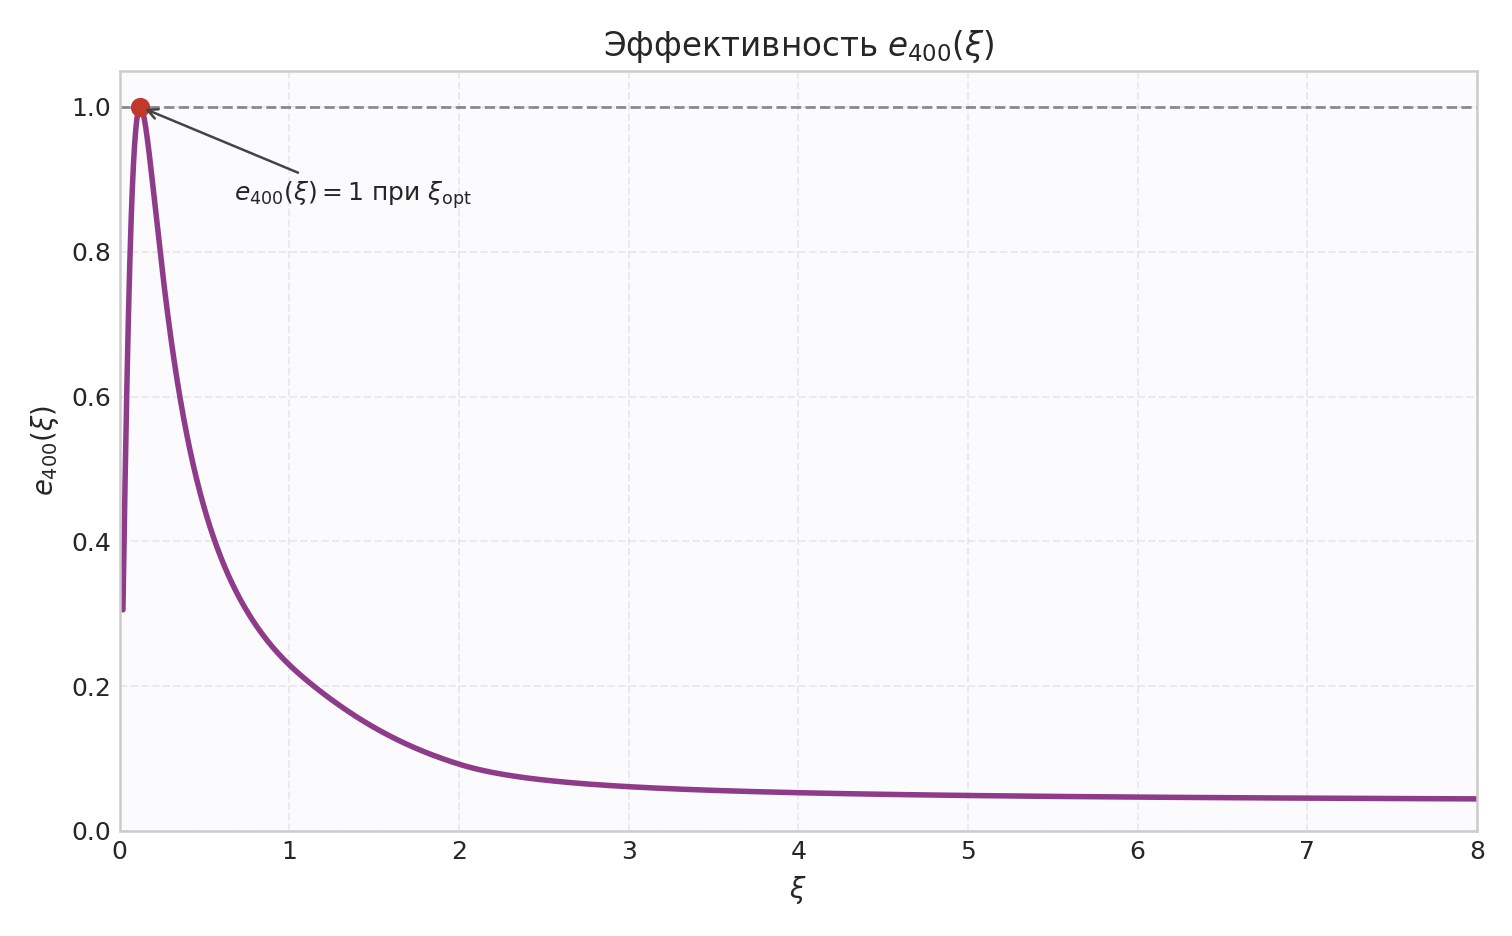
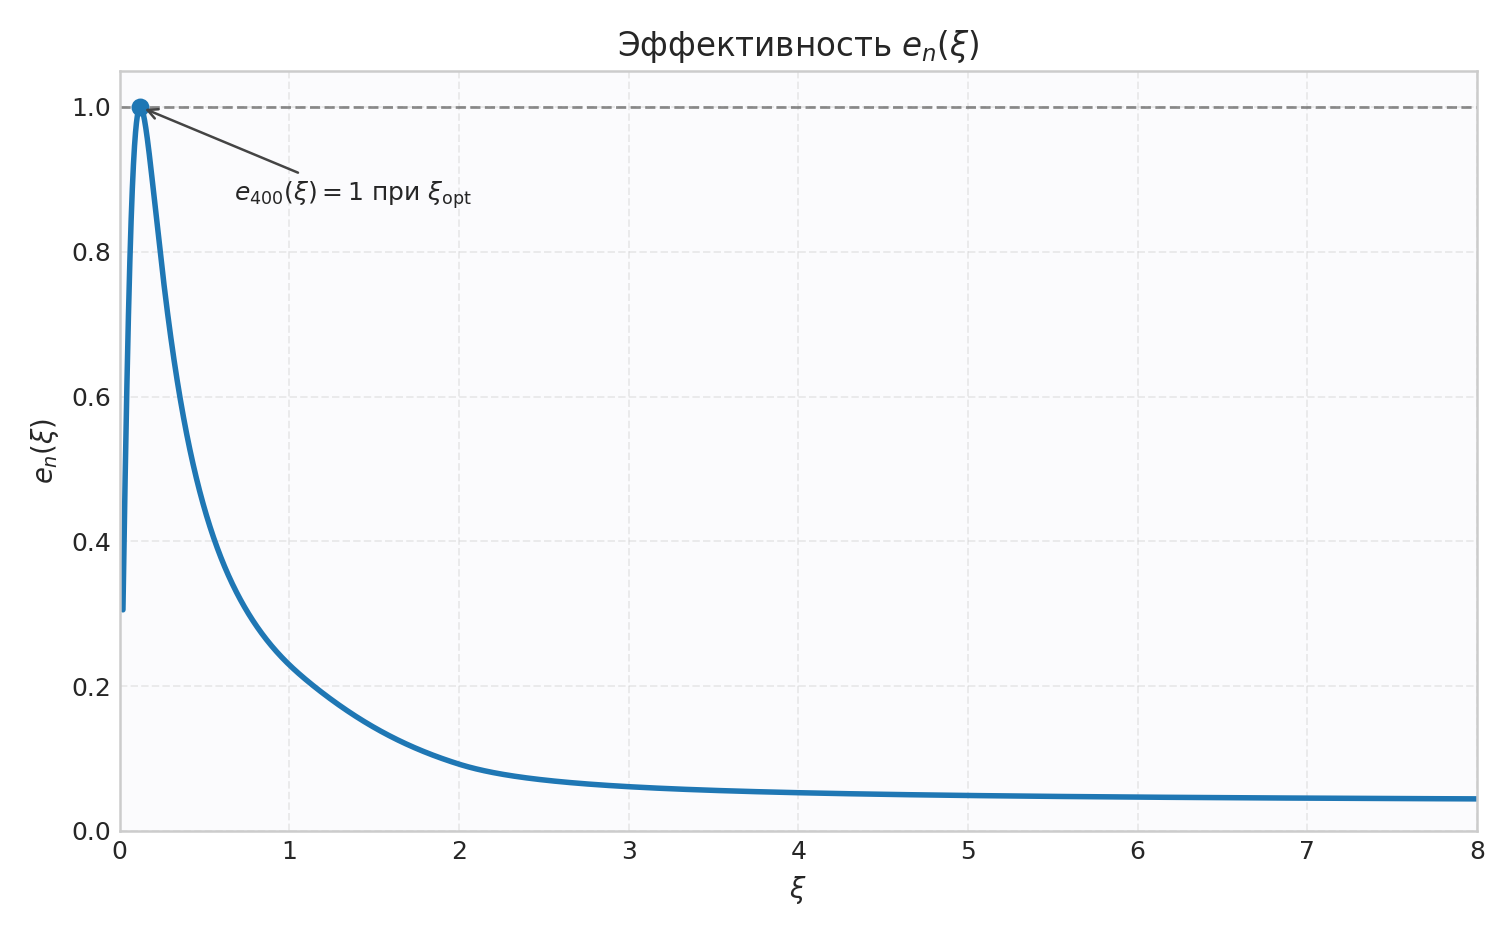
Add some new info about coursework

diff --git a/coursework/plot_mise_analytics.py b/coursework/plot_mise_analytics.py
@@ -9,7 +9,7 @@ import numpy as np
 
 A = math.sqrt(3.0)
 F_NORM = 1.0 / (2.0 * A)
-N_REF = 400
+N_REF = [30, 100]
 PLOTS_DIR = Path(__file__).resolve().parent / "plots"
 
 
@@ -62,13 +62,36 @@ def find_optimum(n: int, xi_grid: np.ndarray) -> tuple[float, float]:
     return float(candidate_array[index]), float(values[index])
 
 
-def verify_formula() -> list[str]:
-    checks: list[str] = []
+def normalize_n_ref(n_ref: int | list[int] | tuple[int, ...]) -> list[int]:
+    if isinstance(n_ref, int):
+        return [n_ref]
+    return [int(n) for n in n_ref]
 
-    left_at_1 = float(delta_bar(np.array([1.0 - 1e-9]), N_REF)[0])
-    right_at_1 = float(delta_bar(np.array([1.0 + 1e-9]), N_REF)[0])
-    left_at_2 = float(delta_bar(np.array([2.0 - 1e-9]), N_REF)[0])
-    right_at_2 = float(delta_bar(np.array([2.0 + 1e-9]), N_REF)[0])
+
+def format_n_refs(n_refs: list[int]) -> str:
+    return "_".join(str(n) for n in n_refs)
+
+
+def delta_plot_filename(n_refs: list[int]) -> str:
+    if len(n_refs) == 1:
+        return f"delta_bar_n{n_refs[0]}.png"
+    return f"delta_bar_n{format_n_refs(n_refs)}.png"
+
+
+def efficiency_plot_filename(n_refs: list[int]) -> str:
+    if len(n_refs) == 1:
+        return f"efficiency_en_n{n_refs[0]}.png"
+    return f"efficiency_en_n{format_n_refs(n_refs)}.png"
+
+
+def verify_formula(n_refs: list[int]) -> list[str]:
+    checks: list[str] = []
+    n_ref = n_refs[0]
+
+    left_at_1 = float(delta_bar(np.array([1.0 - 1e-9]), n_ref)[0])
+    right_at_1 = float(delta_bar(np.array([1.0 + 1e-9]), n_ref)[0])
+    left_at_2 = float(delta_bar(np.array([2.0 - 1e-9]), n_ref)[0])
+    right_at_2 = float(delta_bar(np.array([2.0 + 1e-9]), n_ref)[0])
 
     checks.append(
         f"continuity xi=1: |left-right| = {abs(left_at_1 - right_at_1):.3e}"
@@ -77,7 +100,7 @@ def verify_formula() -> list[str]:
         f"continuity xi=2: |left-right| = {abs(left_at_2 - right_at_2):.3e}"
     )
 
-    small_values = delta_bar(np.array([0.2, 0.05, 0.02]), N_REF)
+    small_values = delta_bar(np.array([0.2, 0.05, 0.02]), n_ref)
     growth_ok = bool(small_values[2] > small_values[1] > small_values[0])
     checks.append(
         "growth near 0+: "
@@ -88,18 +111,18 @@ def verify_formula() -> list[str]:
         )
     )
 
-    large_value = float(delta_bar(np.array([50.0]), N_REF)[0])
+    large_value = float(delta_bar(np.array([50.0]), n_ref)[0])
     checks.append(
         f"large xi limit: delta_bar(50) = {large_value:.6f}, target = {F_NORM:.6f}, "
         f"diff = {abs(large_value - F_NORM):.3e}"
     )
 
-    xi_opt, delta_min = find_optimum(N_REF, build_xi_grid())
-    off_opt_values = delta_bar(np.array([xi_opt / 2.0, xi_opt * 2.0]), N_REF)
-    efficiency_at_opt = float(delta_min / delta_bar(np.array([xi_opt]), N_REF)[0])
+    xi_opt, delta_min = find_optimum(n_ref, build_xi_grid())
+    off_opt_values = delta_bar(np.array([xi_opt / 2.0, xi_opt * 2.0]), n_ref)
+    efficiency_at_opt = float(delta_min / delta_bar(np.array([xi_opt]), n_ref)[0])
     off_opt_ok = bool(np.all(delta_min / off_opt_values < 1.0))
     checks.append(
-        f"efficiency: e_400(xi_opt)={efficiency_at_opt:.6f}, "
+        f"efficiency: e_{n_ref}(xi_opt)={efficiency_at_opt:.6f}, "
         f"off optimum < 1 is {off_opt_ok}"
     )
 
@@ -122,27 +145,42 @@ def configure_style() -> None:
     )
 
 
-def save_delta_plot(xi_grid: np.ndarray, xi_opt: float, delta_min: float) -> None:
+def save_delta_plot(
+    xi_grid: np.ndarray,
+    ref_optima: dict[int, tuple[float, float]],
+    n_refs: list[int],
+) -> str:
     fig, ax = plt.subplots(figsize=(8.4, 5.2))
-    values = delta_bar(xi_grid, N_REF)
 
-    ax.plot(xi_grid, values, color="#1f5aa6", linewidth=2.2)
-    ax.scatter([xi_opt], [delta_min], color="#c0392b", s=45, zorder=3)
-    ax.annotate(
-        rf"минимум: $\xi_{{\mathrm{{opt}}}} \approx {xi_opt:.3f}$",
-        xy=(xi_opt, delta_min),
-        xytext=(xi_opt + 0.35, delta_min + 0.02),
-        arrowprops={"arrowstyle": "->", "color": "#444444"},
-        fontsize=10,
-    )
+    for n_ref in n_refs:
+        xi_opt, delta_min = ref_optima[n_ref]
+        values = delta_bar(xi_grid, n_ref)
+        ax.plot(xi_grid, values, linewidth=2.2, label=rf"$n={n_ref}$")
+        ax.scatter([xi_opt], [delta_min], s=38, zorder=3)
+
+    if len(n_refs) == 1:
+        n_ref = n_refs[0]
+        xi_opt, delta_min = ref_optima[n_ref]
+        ax.annotate(
+            rf"минимум: $\xi_{{\mathrm{{opt}}}} \approx {xi_opt:.3f}$",
+            xy=(xi_opt, delta_min),
+            xytext=(xi_opt + 0.35, delta_min + 0.02),
+            arrowprops={"arrowstyle": "->", "color": "#444444"},
+            fontsize=10,
+        )
+    else:
+        ax.legend(title=r"$n$", frameon=True)
+
     ax.set_xlim(0.0, 8.0)
     ax.set_xlabel(r"$\xi$")
-    ax.set_ylabel(r"$\bar{\delta}_{400}(\xi)$")
-    ax.set_title(r"ОИСКО $\bar{\delta}_{400}(\xi)$")
+    ax.set_ylabel(r"$\bar{\delta}_{n}(\xi)$")
+    ax.set_title(r"ОИСКО $\bar{\delta}_{n}(\xi)$")
 
     fig.tight_layout()
-    fig.savefig(PLOTS_DIR / "delta_bar_n400.png", dpi=180)
+    filename = delta_plot_filename(n_refs)
+    fig.savefig(PLOTS_DIR / filename, dpi=180)
     plt.close(fig)
+    return filename
 
 
 def save_xi_opt_plot(n_values: np.ndarray, xi_opt_values: np.ndarray) -> None:
@@ -173,36 +211,52 @@ def save_delta_min_plot(n_values: np.ndarray, delta_min_values: np.ndarray) -> N
     plt.close(fig)
 
 
-def save_efficiency_plot(xi_grid: np.ndarray, xi_opt: float, delta_min: float) -> None:
+def save_efficiency_plot(
+    xi_grid: np.ndarray,
+    ref_optima: dict[int, tuple[float, float]],
+    n_refs: list[int],
+) -> str:
     fig, ax = plt.subplots(figsize=(8.4, 5.2))
-    delta_values = delta_bar(xi_grid, N_REF)
-    efficiency = delta_min / delta_values
 
-    ax.plot(xi_grid, efficiency, color="#8e3b8a", linewidth=2.2)
+    for n_ref in n_refs:
+        xi_opt, delta_min = ref_optima[n_ref]
+        delta_values = delta_bar(xi_grid, n_ref)
+        efficiency = delta_min / delta_values
+        ax.plot(xi_grid, efficiency, linewidth=2.2, label=rf"$n={n_ref}$")
+        ax.scatter([xi_opt], [1.0], s=38, zorder=3)
+
     ax.axhline(1.0, color="#666666", linewidth=1.1, linestyle="--", alpha=0.75)
-    ax.scatter([xi_opt], [1.0], color="#c0392b", s=45, zorder=3)
-    ax.annotate(
-        r"$e_{400}(\xi)=1$ при $\xi_{\mathrm{opt}}$",
-        xy=(xi_opt, 1.0),
-        xytext=(xi_opt + 0.55, 0.87),
-        arrowprops={"arrowstyle": "->", "color": "#444444"},
-        fontsize=10,
-    )
+    if len(n_refs) == 1:
+        n_ref = n_refs[0]
+        xi_opt, _ = ref_optima[n_ref]
+        ax.annotate(
+            rf"$e_{{{n_ref}}}(\xi)=1$ при $\xi_{{\mathrm{{opt}}}}$",
+            xy=(xi_opt, 1.0),
+            xytext=(xi_opt + 0.55, 0.87),
+            arrowprops={"arrowstyle": "->", "color": "#444444"},
+            fontsize=10,
+        )
+    else:
+        ax.legend(title=r"$n$", frameon=True)
+
     ax.set_xlim(0.0, 8.0)
     ax.set_ylim(0.0, 1.05)
     ax.set_xlabel(r"$\xi$")
-    ax.set_ylabel(r"$e_{400}(\xi)$")
-    ax.set_title(r"Эффективность $e_{400}(\xi)$")
+    ax.set_ylabel(r"$e_n(\xi)$")
+    ax.set_title(r"Эффективность $e_n(\xi)$")
 
     fig.tight_layout()
-    fig.savefig(PLOTS_DIR / "efficiency_en_n400.png", dpi=180)
+    filename = efficiency_plot_filename(n_refs)
+    fig.savefig(PLOTS_DIR / filename, dpi=180)
     plt.close(fig)
+    return filename
 
 
 def main() -> None:
     PLOTS_DIR.mkdir(parents=True, exist_ok=True)
     configure_style()
 
+    n_refs = normalize_n_ref(N_REF)
     xi_grid = build_xi_grid()
     n_values = np.arange(10, 1001)
 
@@ -210,17 +264,17 @@ def main() -> None:
     xi_opt_values = optima[:, 0]
     delta_min_values = optima[:, 1]
 
-    xi_opt_ref, delta_min_ref = find_optimum(N_REF, xi_grid)
+    ref_optima = {n_ref: find_optimum(n_ref, xi_grid) for n_ref in n_refs}
 
-    save_delta_plot(xi_grid, xi_opt_ref, delta_min_ref)
+    delta_plot = save_delta_plot(xi_grid, ref_optima, n_refs)
     save_xi_opt_plot(n_values, xi_opt_values)
     save_delta_min_plot(n_values, delta_min_values)
-    save_efficiency_plot(xi_grid, xi_opt_ref, delta_min_ref)
+    efficiency_plot = save_efficiency_plot(xi_grid, ref_optima, n_refs)
 
     print("Generated plots:")
     for filename in (
-        "delta_bar_n400.png",
-        "efficiency_en_n400.png",
+        delta_plot,
+        efficiency_plot,
         "xi_opt_vs_n.png",
         "delta_min_vs_n.png",
     ):
@@ -228,14 +282,18 @@ def main() -> None:
 
     print()
     print("Verification checks:")
-    for line in verify_formula():
+    for line in verify_formula(n_refs):
         print(f"  - {line}")
 
     print()
-    print("Reference optimum for n=400:")
-    print(f"  - xi_opt = {xi_opt_ref:.6f}")
-    print(f"  - delta_bar_min = {delta_min_ref:.6f}")
-    print(f"  - e_400(xi_opt) = {delta_min_ref / delta_bar(np.array([xi_opt_ref]), N_REF)[0]:.6f}")
+    print("Reference optima:")
+    for n_ref in n_refs:
+        xi_opt_ref, delta_min_ref = ref_optima[n_ref]
+        efficiency_at_opt = delta_min_ref / delta_bar(np.array([xi_opt_ref]), n_ref)[0]
+        print(f"  - n={n_ref}:")
+        print(f"      xi_opt = {xi_opt_ref:.6f}")
+        print(f"      delta_bar_min = {delta_min_ref:.6f}")
+        print(f"      e_{n_ref}(xi_opt) = {efficiency_at_opt:.6f}")
 
 
 if __name__ == "__main__":

diff --git a/coursework/task.md b/coursework/task.md
@@ -1,3 +1,6 @@
+# Все о курсовой работе
+
+## Условие
 
 Дано:
 
@@ -27,4 +30,67 @@ $$
 
 Нужно аналитически подробно посчитать ОИСКО
 
-$ \bar{\delta_n}(\xi) $ 
+$ \bar{\delta_n}(\xi) $
+
+## TODO
+
+- Нужно нормировать ОИСКО в аналитическом вычислении
+- Диплом Адамович Светы - посмотреть, как так получаются кривые
+
+- Гистограммы вида $ x_0 +- \Delta h $ (2б)
+- Оценка максимального правдоподобия (?б)
+- Метод Монте-Карло (3б)
+- Еще варинт Монте-Карло - исследование закона распределения относительного отклонения, но без усреднения (2б)
+- Оценка погрешности при оптимальной форме ядра (?б)
+- Автоматическая оценка (по диплому Адамович Светы) (5б)
+- Проекционная оценка плотности вероятности (2б)
+
+Сейчас у меня:
+
+- Об - зачтено
+- 3б + 2б - правки
+- 0б - pending
+
+### Про автоматические ядерные оценки
+
+$$
+
+\xi = \frac{h}{b} \\
+
+f(x) = \frac{1}{b}f_0(\frac{x-a}{b}), (b > 0, -\inf < a < \inf)\\
+
+h_{opt} = b * \xi_{opt}
+
+$$
+
+Задается $ f_0 $
+
+Поль Деовель предлагал заменять $ b \approx \bar{b} $
+
+Дело в том, что если посмотреть на график $ \bar{\delta_n}(\xi) $, то вблизи оптимума график будет довольно плоским
+
+Деовель предложил сразу смотреть на $ h_{opt} = b * \xi_{opt} $ и отсюда уже находить $ \xi_{opt} $
+
+Подробнее стоит прочитать в дипломе Светы Адамович или диплом Миши Туника
+
+### Проекционная оценка плотности вероятности
+
+Суть проекционной оценки - мы берем некоторую ортонормированную систему функций $ \phi_i(x) $, причем без веса 
+
+Тогда теоречический закон можно представить в виде разложения по этим функциям $ f(x) = \sum_{i=0}^{\inf} c_i\phi_i(x) $
+
+Далее нужно смотреть размышления Ченцова. Основная идея Ченцова - $ \bar{c_i} $ можно взять как среднее арифметическое от системы функций, и затем оценка теоретического закона считается через разложение с оценками $ \bar{c_i} $, описанное выше
+
+Варианты:
+
+1. Случайная величина X распределена на полуоси x > 0. В этом случае в качестве $ \phi_i(x) $ удобно принять функции Логерра
+2. Случайная величина X распределена на всей оси. В этом случае мы испоьзуем функции Эрмита. Также с этим некоторым образом связан полином Эрмита, для которого есть в том числе явное выражение.
+3. Случайная величина X распределена в конечном интервале $ a \le x \le b $. Тогда лучше взять тригонометрическую систему функций
+
+#### Задача - для своего закона получить проекционную оценку плотности вероятности
+
+### Оценка методом максимального правдоподобия
+
+Пусть имеется два параметра, $ f(x; a_1; a_2) $. Как мы строим оценку? Сначала оцениваем параметры, а затем в качестве оценки плотности берем параметризованную плотность с подставленными оценками параметров
+
+Далее находим нормированную ОИСКО, используя оценку плотности

diff --git a/2-4/2.11.md b/2-4/2.11.md
@@ -10,7 +10,6 @@ $$
 
 Представить график зависимости ОИСКО $ \delta_n (с чертой сверху) $ в функции от m
 
-
 ---
 
 Нужно подробнее описать, как я построил гистограмму
